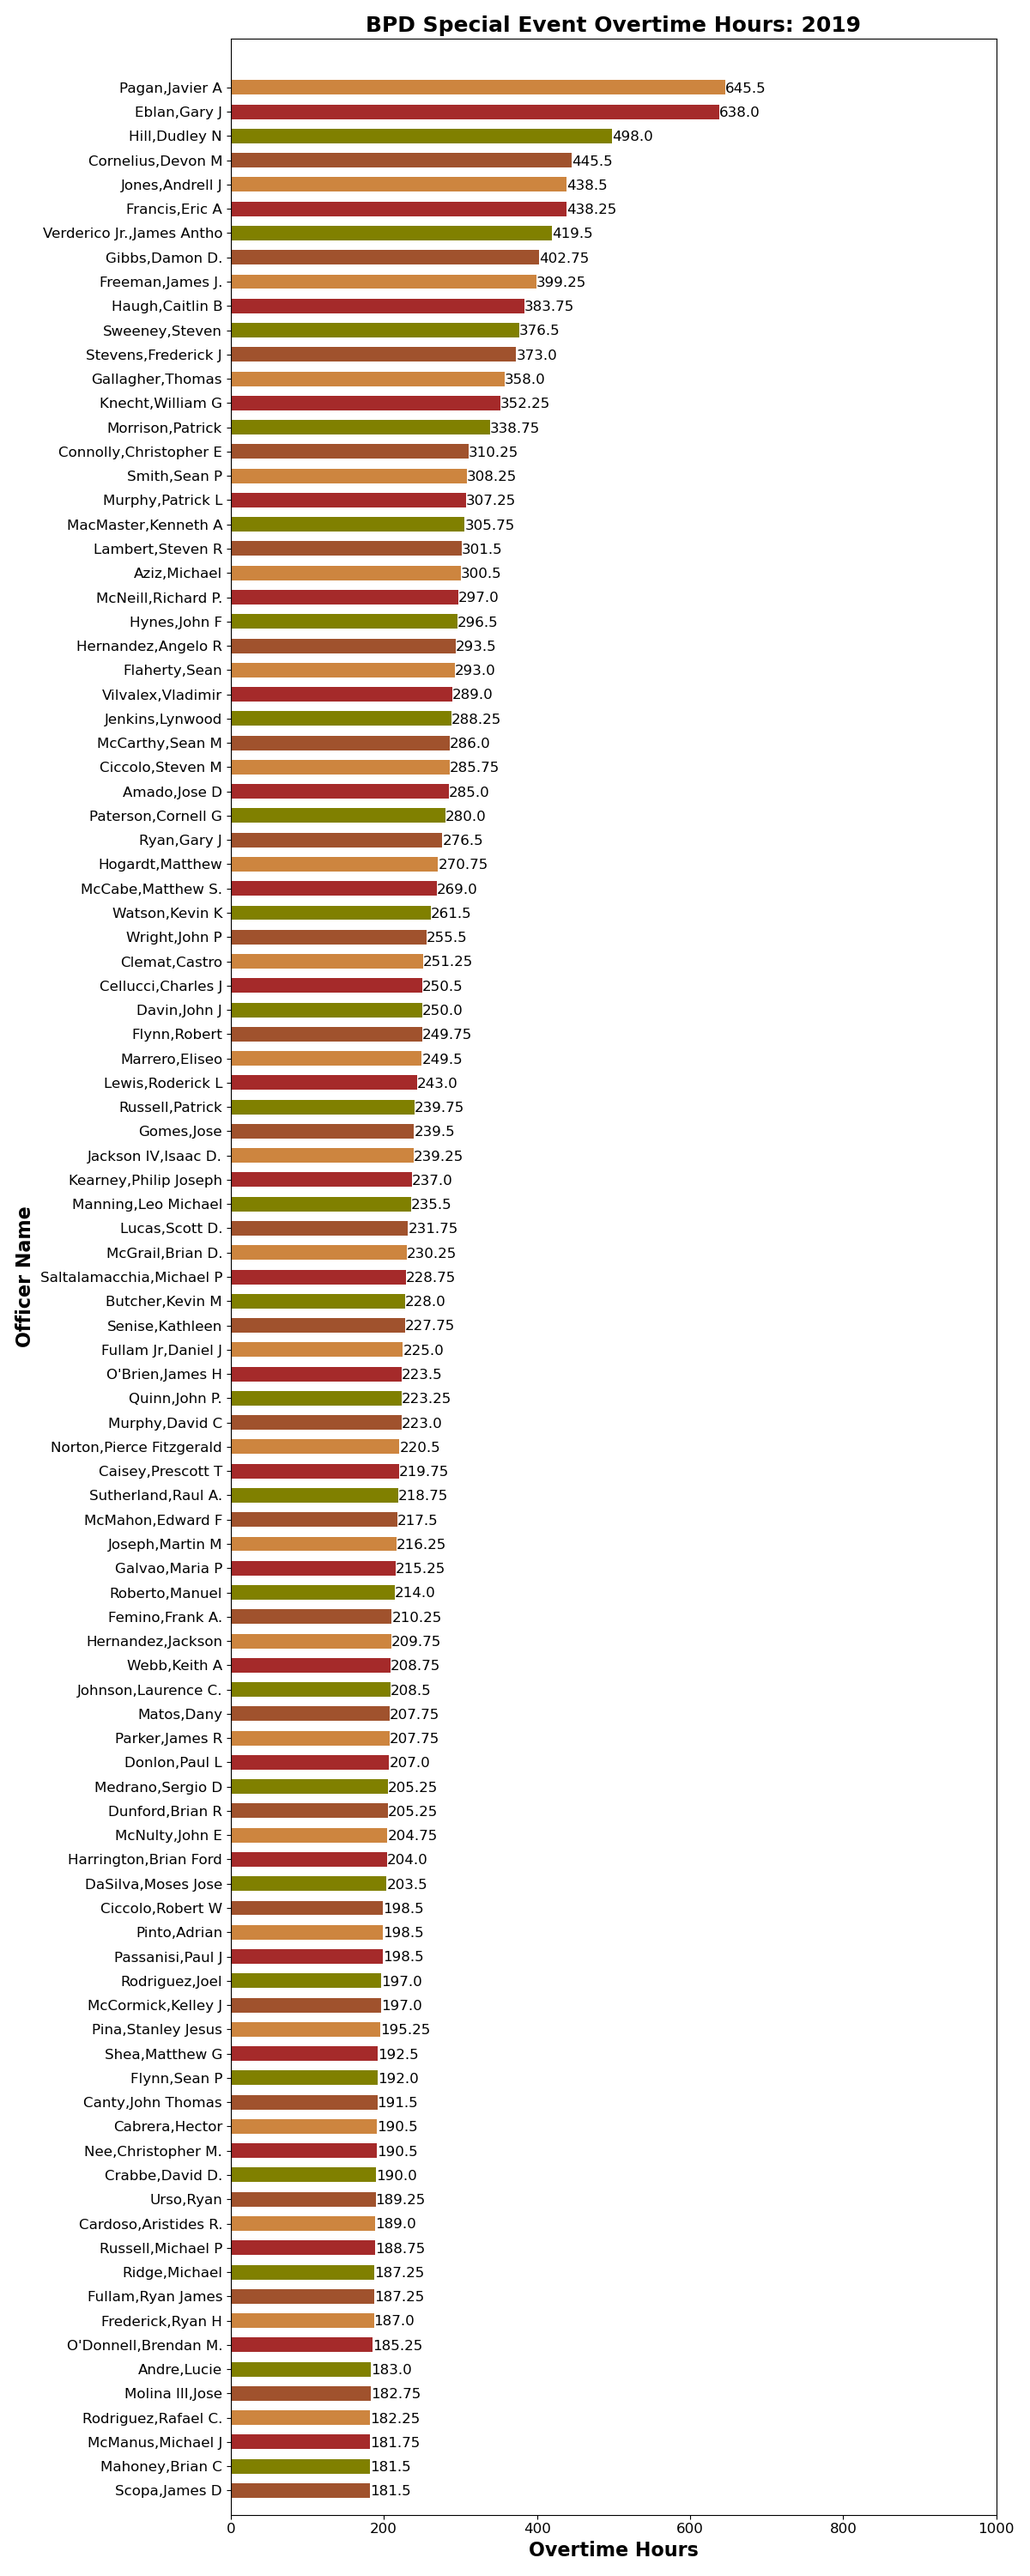
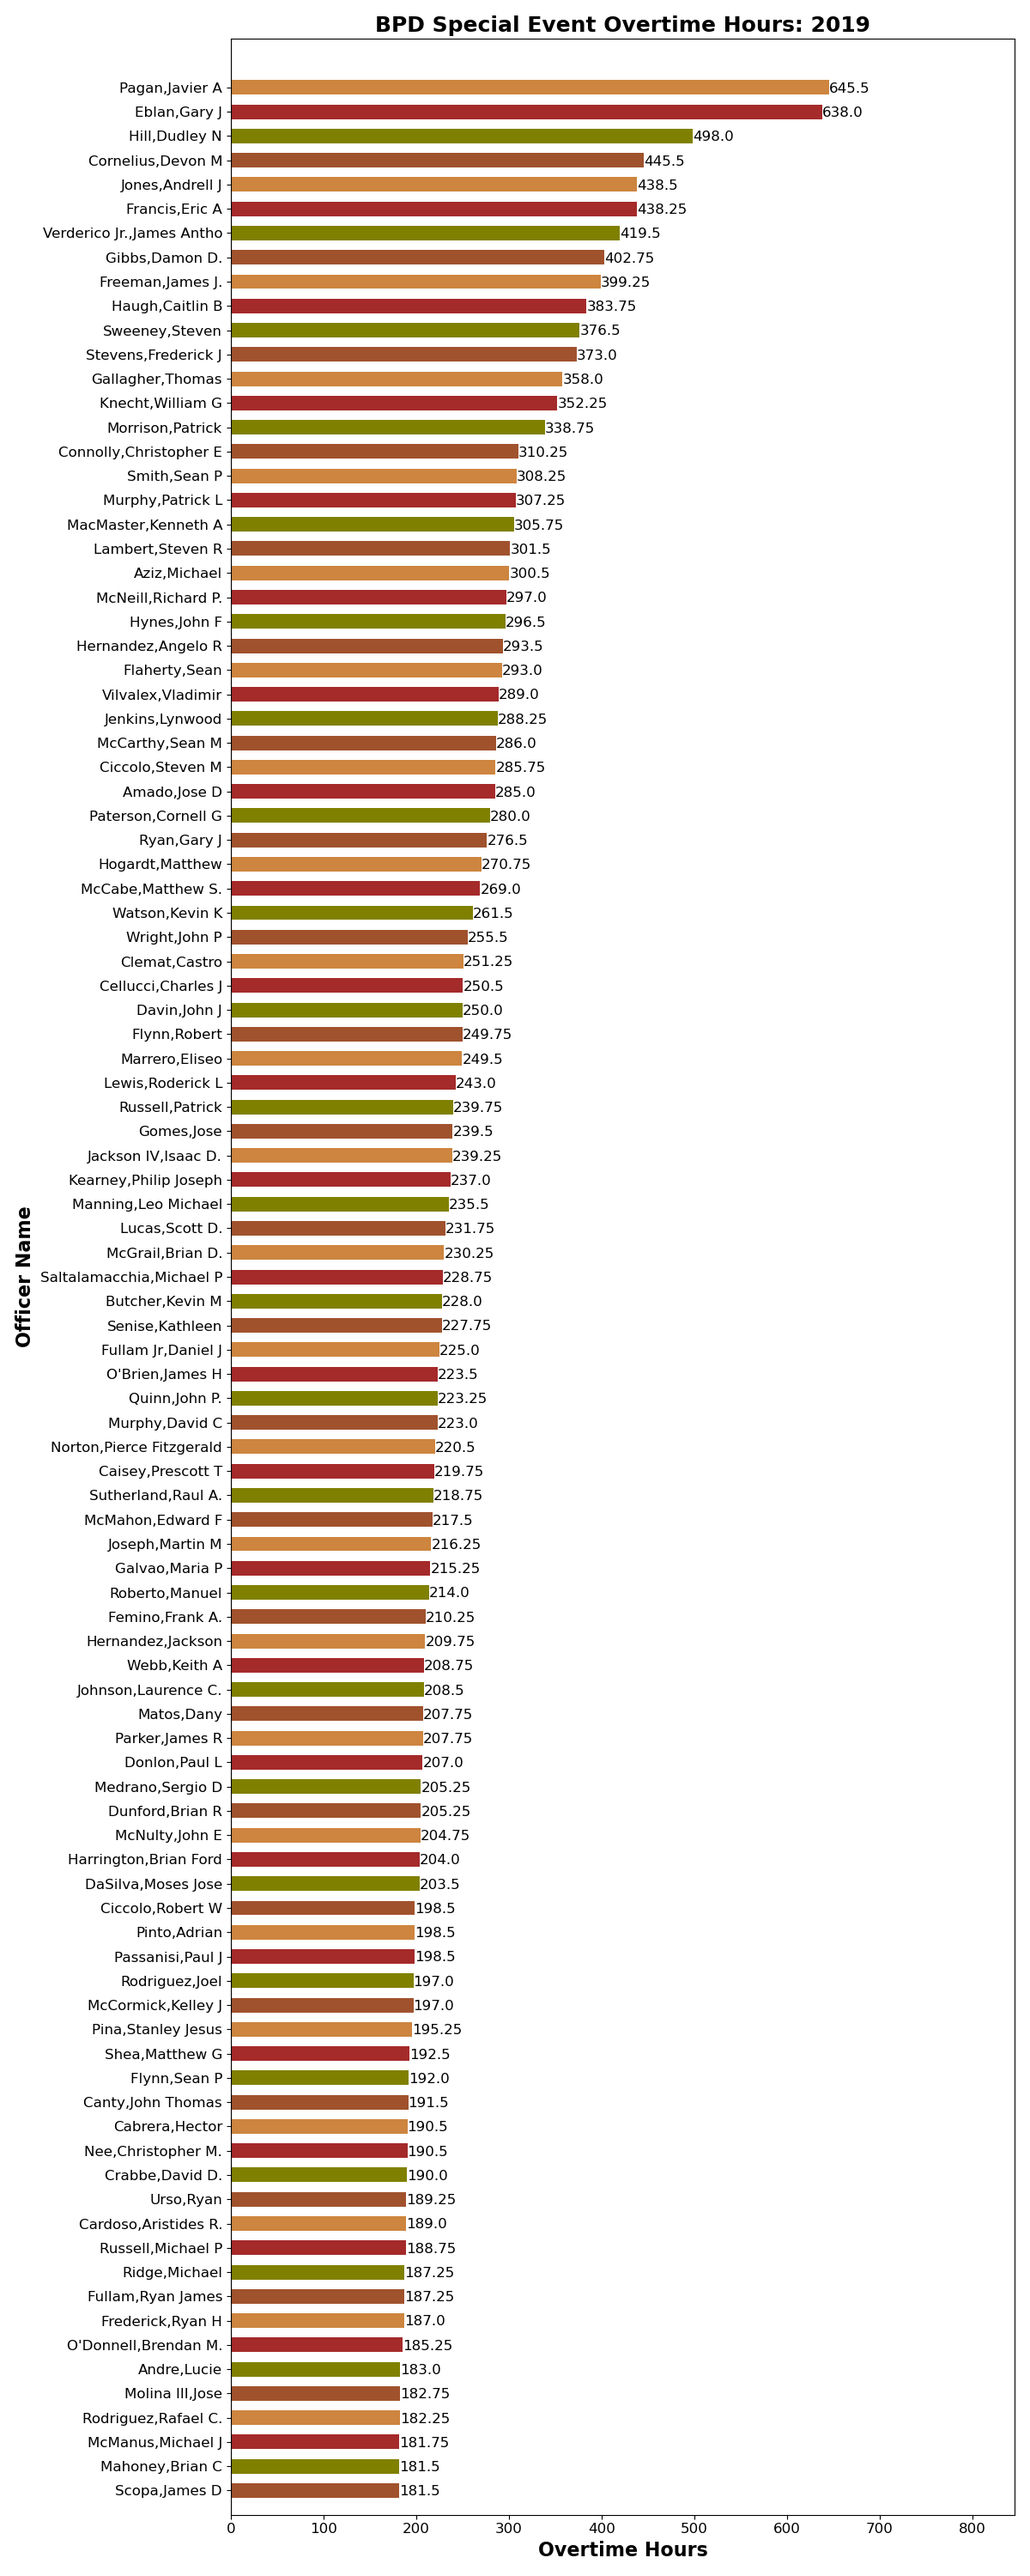
changed xlim to be automatically length

Changed region(s): [[0.3392, 0.0, 0.8325, 0.992], [0.5242, 0.961, 0.6167, 0.992], [0.6475, 0.961, 0.6783, 0.992]]

diff --git a/code/top_n_officers.py b/code/top_n_officers.py
@@ -35,7 +35,7 @@ def find_top_officers(n):
 
         plt.figure(figsize=(12, 30))
         plt.ylim((-1, 101))
-        plt.xlim((0, 1000))
+        plt.xlim((0, max(df_20xx.OTHOURS) + 200))
         bars = plt.barh(df_20xx.index.to_list(), df_20xx.OTHOURS, height=0.6, color=["sienna", "olive", "brown", "peru"])
         for bar, label in zip(bars, df_20xx.OTHOURS):
             width = bar.get_width()
